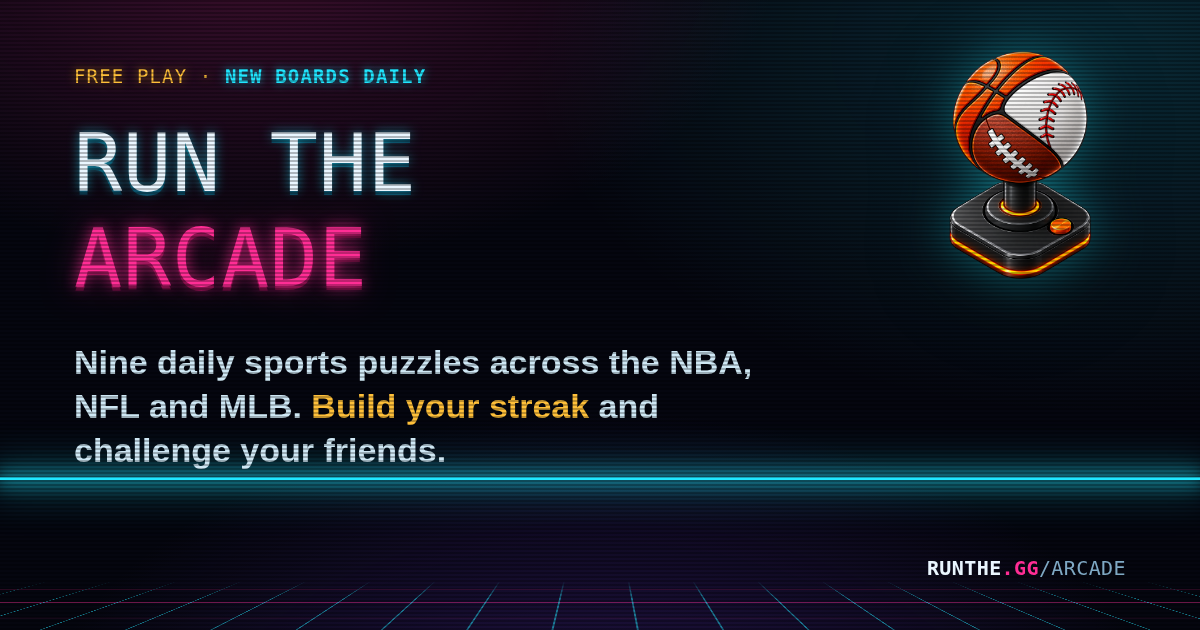
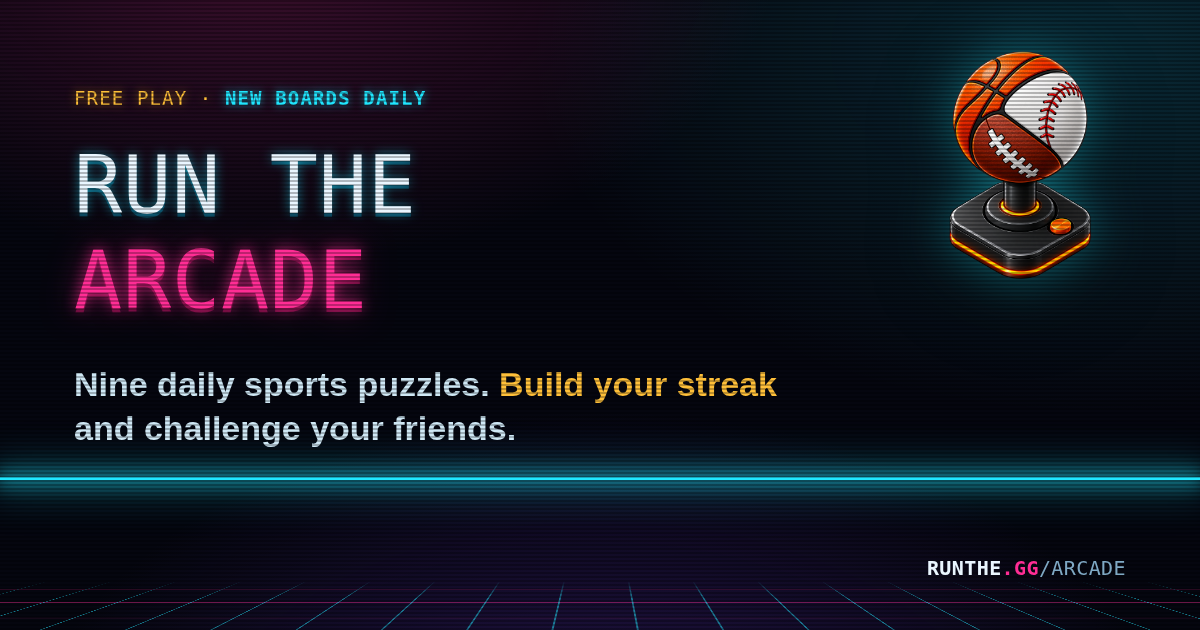
Share card: shorten subtitle to "Nine daily sports puzzles. Build your streak and challenge your friends."
Drops the "across the NBA, NFL and MLB" clause per direction. Regenerated
arcade/assets/arcade-share.png; icons unchanged.

Claude-Session: https://claude.ai/code/session_01Ws6GJkKySTcJXueAEbpm9X

Changed region(s): [[0.0617, 0.0905, 0.37, 0.5127], [0.0617, 0.5429, 0.6475, 0.754]]

diff --git a/arcade/og-source.html b/arcade/og-source.html
@@ -53,7 +53,7 @@
   <div class="wrap">
     <div class="eyebrow">Free play &middot; <b>New boards daily</b></div>
     <h1><span class="one">Run The</span><br><span class="two">Arcade</span></h1>
-    <div class="sub">Nine daily sports puzzles across the NBA, NFL and MLB.
+    <div class="sub">Nine daily sports puzzles.
        <b>Build your streak</b> and challenge your friends.</div>
   </div>
   <div class="scan"></div>
